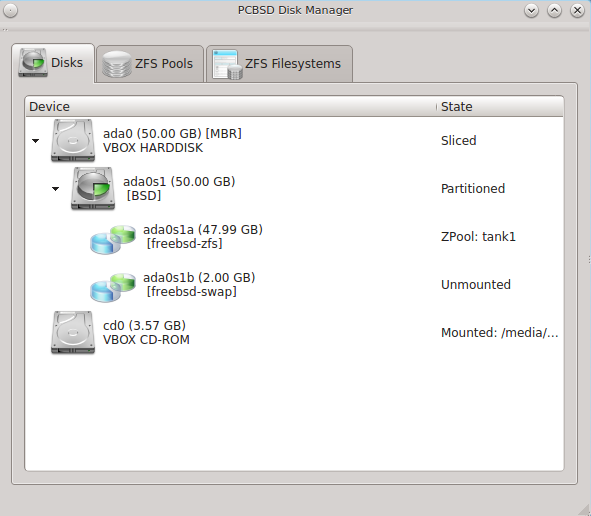
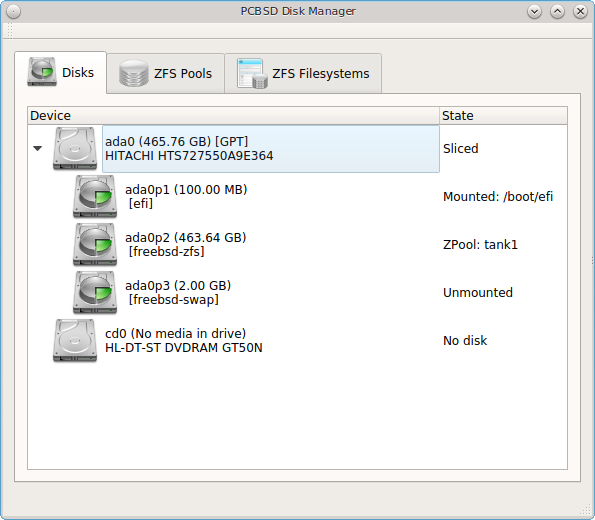
Review sections 8.3 to 8.10.

diff --git a/src-qt5/docs/controlpanel.rst b/src-qt5/docs/controlpanel.rst
@@ -613,7 +613,7 @@ the screen, allowing you to configure the following:
 
 * **Administrator Name:** input the name of the Active Directory Administrator account.
 
-- **Administrator Password:** input and confirm the password for the Active Directory Administrator account.
+* **Administrator Password:** input and confirm the password for the Active Directory Administrator account.
 
 The values that you input using this GUI are saved to :file:`/usr/local/etc/pc-activedirectory.conf` and :file:`/usr/local/etc/smb4.conf`.
 
@@ -651,7 +651,7 @@ of the screen, allowing you to configure the following:
 * **Machine Suffix:** this setting is optional and usually represents a description such as server or accounting. The input value will be added to the name
   when a system is added to the LDAP directory.
 
-* **Encryption Mode:** choices are "Off", "SSL", or "TLS". The selected type must be supported by the LDAP server.
+* **Encryption Mode:** choices are "NONE", "SSL", or "TLS". The selected type must be supported by the LDAP server.
 
 * **Self Signed Certificate:** used to verify the certificate of the LDAP server if SSL connections are used. Paste the output of the command 
   :command:`openssl s_client -connect server:port -showcerts`.
@@ -674,17 +674,17 @@ PC-BSD® supports a feature of ZFS known as multiple boot environments (BEs). Wi
 low-risk operation as you can backup your current boot environment before upgrading or making software updates to your system. If needed, you also have the
 option of booting into a backup boot environment. For example: 
 
-* if you are making software changes to a boot environment, you can take a snapshot of that environment at any stage during the modifications.
+* If you are making software changes to a boot environment, you can take a snapshot of that environment at any stage during the modifications.
 
-* you can save multiple boot environments on your system and perform various updates on each of them as needed. You can install, test, and update different
+* You can save multiple boot environments on your system and perform various updates on each of them as needed. You can install, test, and update different
   software packages on each.
 
-* you can mount a boot environment in order to :command:`chroot` into the mount point and update specific packages on the mounted environment.
+* You can mount a boot environment in order to :command:`chroot` into the mount point and update specific packages on the mounted environment.
 
-* you can move a boot environment to another machine, physical or virtual, in order to check hardware support.
+* You can move a boot environment to another machine, physical or virtual, in order to check hardware support.
 
 .. note:: for boot environments to work properly, **do not delete the default ZFS mount points during installation.** The default ZFS layout ensures that when
-   you create multiple boot environments, the :file:`/usr/pbi/`, :file:`/usr/local/`, :file:`/usr/home/`, :file:`/usr/ports/`, :file:`/usr/src/` and
+   boot environments are created, the :file:`/usr/pbi/`, :file:`/usr/local/`, :file:`/usr/home/`, :file:`/usr/ports/`, :file:`/usr/src/` and
    :file:`/var/` directories remain untouched. This way, if you rollback to a previous boot environment, you will not lose data in your home directories, any
    installed applications, or downloaded src or ports. During installation, you can add additional mount points, just don't delete the default ones.
 
@@ -692,7 +692,7 @@ To create and manage boot environments using a graphical interface, go to :menus
 :command:`pc-su pc-bootconfig`. You will be prompted to enter your password.
 
 PC-BSD® automatically creates a boot environment whenever it updates the operating system or installed software. In the example shown in Figure 8.4a, there
-is an entry named *default* that represents the original installation and an entry for an operating system update to patch level 14.
+is an entry named *default* that represents the original installation and an entry that was created when the operating system was updated to patch level 20.
 
 **Figure 8.4a: Managing Boot Environments**
 
@@ -733,7 +733,7 @@ that was set as the "Default".
 
 .. image:: images/be4.png
 
-The "Boot Environment Menu" indicates that multiple boot environments are available. To browse the available boot environments, press the :kbd:`spacebar` to pause the screen,
+The "Boot Environment Menu" entry indicates that multiple boot environments are available. To browse the available boot environments, press the :kbd:`spacebar` to pause the screen,
 arrow down to "Boot Environment Menu" and press :kbd:`Enter`. In the example shown in Figure 8.4c, two boot environments are available. The entry with "default" in the
 name indicates the date and time of the initial installation. The first boot entry indicates the operating system's current patch level and the date the system was updated.
 It is first in the boot order and since it is highlighted in blue, it is the active boot environment, or the one the system will boot into unless another BE is manually
@@ -787,9 +787,10 @@ example, this command creates a boot environment named *beforeupgrade*::
 To view all boot environments, use the :command:`list` command::
 
  beadm list
- BE             Active Mountpoint Space Created
- default        NR     /          9.1G  2013-12-05 09:03
- beforeupgrade  -      -          2.1M  2013-12-06 10:14
+ BE                                  Active Mountpoint  Space Created             Nickname
+ default                             -      -            8.4G 2015-05-07 10:14    default
+ 10.1-RELEASE-p20-up-20150512_114505 NR     /           33.1G 2015-05-12 10:57    10.1-RELEASE-p20-up-20150512_114505
+ beforeupgrade                       -      -            8.2M 2015-05-12 17:30    beforeupgrade
 
 The possible flags in the "Active" field are as follows: 
 
@@ -799,17 +800,20 @@ The possible flags in the "Active" field are as follows:
 
 * **-:** inactive 
 
-In this example, the current boot environment is called *default*, it is active now, will be used at next reboot, and it is mounted. The newly created
+In this example, the current boot environment is called *10.1-RELEASE-p20-up-20150512_114505*, it is active now, will be used at next reboot, and it is mounted. The newly created
 *beforeupgrade* boot environment exists, but is inactive and unmounted. To activate the new boot environment::
 
  beadm activate beforeupgrade
+ GRUB configuration updated successfully
  Activated successfully
- beadm list
- BE            Active Mountpoint Space Created
- default       N      /          3.1M  2013-12-05 09:03
- beforeupgrade R      -          9.1G  2013-12-06 10:14
 
-The flags now indicate that the system is currently booted into *default*, but at next boot the system will boot into *beforeupgrade*.
+ beadm list
+ BE                                  Active Mountpoint  Space Created             Nickname
+ default                             -      -            8.4G 2015-05-07 10:14    default
+ 10.1-RELEASE-p20-up-20150512_114505 N      /           12.6M 2015-05-12 10:57    10.1-RELEASE-p20-up-20150512_114505
+ beforeupgrade                       R      -           33.1G 2015-05-12 17:30    beforeupgrade
+
+The flags now indicate that the system is currently booted into *10.1-RELEASE-p20-up-20150512_114505*, but at next boot the system will boot into *beforeupgrade*.
 
 The boot menu configuration can be found in the ASCII text file :file:`/usr/local/etc/default/grub`::
 
@@ -869,9 +873,9 @@ desktop. When finished, click "Apply" and you will be prompted to input the sele
    until this setting is changed again in Login Manager.
 
 The "Remote login" tab, shown in Figure 8.6b, is used to enable a remote user to connect to a desktop session using
-`VNC <http://en.wikipedia.org/wiki/Virtual_Network_Computing>`_. Check the "Enable Remote Desktop (VNC)" box to enable this service. You will be prompted for
-the name and password of the user. Reboot in order to activate the VNC service over port 5900. You will also need to open TCP port 5900 using
-:ref:`Firewall Manager`. You can test the connection using the "vnc" option of KRDC (shown in Figure 9.6a) or from another VNC client.
+`VNC <http://en.wikipedia.org/wiki/Virtual_Network_Computing>`_. Check the "Enable Remote Desktop (VNC)" box to enable this service. When you click "Apply", you will
+be prompted for your password as well as the remote login password to use for the VNC session. Reboot in order to activate the VNC service over port 5900. You will
+also need to open TCP port 5900 using :ref:`Firewall Manager`. You can test the connection using the "vnc" option of KRDC (shown in Figure 9.6a) or from another VNC client.
 
 .. warning:: use **extreme caution** when enabling this option as it makes your system available to anyone over the network. There is an additional risk when
    a user logs in over VNC as their password is sent in clear text. If you need someone to access your PC-BSD® system to assist with troubleshooting,
@@ -891,7 +895,7 @@ The "Misc" tab is shown in Figure 8.6c.
 
 This screen provides the following options:
 
-**Enable "show password" button:** by default, when a user types their password at the login prompt shown in Figure 4.8a, "*" characters are displayed as the password is
+**Enable "show password" button:** by default, when a user types their password at the login prompt shown in Figure 4.9a, "*" characters are displayed as the password is
 typed in order to prevent another user from seeing the password as it is typed. When the  "Enable "show password" button" box is checked, and the user clicks the lock icon next to
 the typed password in the login screen, the asterisks will change to reveal the password.
 
@@ -902,7 +906,7 @@ this box. For security reasons, the Login Manager will refuse logins from the *r
 that they check the "Stealth Session" box in the login menu, a temporary, encrypted zvol is created, mounted, and used as a temporary home directory. When the user logs out, the
 zvol is destroyed, along with the contents of that temporary home directory. This allows a user to temporarily use a PC-BSD® system without leaving any data from their login session
 on the PC-BSD® system. This can be useful, for example, to allow a publicly accessible system to support multiple, transient users. It also allows you to login and run
-applications as if on a fresh system each time. Should the system be rebooted before you logout of the stealth session, the onetime key is lost, rendering the data useless.
+applications as if on a fresh system each time. Should the system be rebooted before you logout of the stealth session, the one-time key is lost, rendering the data useless.
 A stealth session is similar to a web browser's private mode, except for your entire desktop session.
 
 .. warning:: if you log into a stealth session, do not save any data to your home directory as it will be destroyed at logout. If your intent is to safely interact with a
@@ -952,7 +956,7 @@ System Manager
 ==============
 
 This section describes the various tasks that can be performed using the graphical System Manager utility. System Manager can be accessed from
-:menuselection:`Control Panel --> System Manager` or by typing pc-su :command:`pc-sysmanager`. You will be prompted to input your password.
+:menuselection:`Control Panel --> System Manager` or by typing :command:`pc-su pc-sysmanager`. You will be prompted to input your password.
 
 The "General" tab, shown in Figure 8.8a, displays the following system information: 
 
@@ -1000,7 +1004,7 @@ During the installation of PC-BSD® you had an opportunity to install FreeBSD so
 
 This tab provides a graphical interface for installing system source or the ports tree using :command:`git`.
 
-If you click the "Fetch PC-BSD System Source" button, a progress screen will indicate that sources are being downloaded to :file:`/usr/src/`. Once the
+If you click the "Fetch PC-BSD System Source" button, a pop-up menu will display the download process. The source will be saved to :file:`/usr/src/`. Once the
 download is complete, a "Finished!" message will appear and you can click the "Close" button to exit this screen.
 
 If you click the "Fetch PC-BSD Ports Tree" button, a message will indicate that ports are being fetched and will indicate when this is complete by adding a
@@ -1057,7 +1061,7 @@ example is seen in Figure 8.9b.
 
 .. image:: images/user2.png
 
-The accounts that you did not create are known as system accounts and are needed by the operating system or installed applications. You should **not** delete
+The accounts that you did not create are known as system accounts and are needed by the operating system or installed applications. Do **not** delete
 any accounts that you did not create yourself as doing so may cause a previously working application to stop working. "Advanced View" provides additional
 information associated with each account, such as the user ID number, full name (description), home directory, default shell, and primary group. System
 accounts usually have a shell of *nologin* for security reasons, meaning that an attacker can not try to login to the system using that account name.
@@ -1121,10 +1125,10 @@ new user, named *dlavigne*, has been created and the entry for that user has bee
 .. image:: images/user5.png
 
 Before a user is configured to use PersonaCrypt on a PC-BSD® system, two buttons are available in the "PersonaCrypt" section of "Advanced Mode". Note that this section is hidden
-if the currently logged in user is selected. Also, if you have just created a user and do not see these options, click "Apply" then re-highlight the user.
+if the currently logged in user is selected. Also, if you have just created a user and do not see these options, click "Apply" then re-highlight the user to display these options:
 
 * **Import Key:** if the user has already created a PersonaCrypt device on another PC-BSD® system, click this button to import a previously saved copy of the key associated with
-  the device. Once the key is imported, the user can now login using PersonaCrypt.
+  the device. Once the key is imported, the user can now login to this computer using PersonaCrypt.
 
 * **Initialize Device:** used to prepare the USB device that will be used as the user's home directory.
 
@@ -1143,7 +1147,7 @@ display the device's key options, as seen in Figure 8.9e.
 
 .. image:: images/user6.png
 
-The following options are available:
+The following options are now available:
 
 * **Export Key:** used to create a copy of the encryption key so that it can be imported for use on another PC-BSD® system.
 
@@ -1152,11 +1156,7 @@ The following options are available:
 * **Disable Key (Import Data):** in addition to uninitializing the PersonaCrypt device on this system, copy the contents of the user's home directory to this system.
 
 Once a user has been initialized for PersonaCrypt on the system, their user account will no longer be displayed when :ref:`Logging In` **unless** their PersonaCrypt device is
-inserted. Once the USB device is inserted, the login screen will add an extra field, as seen in Figure 8.9f.
-
-**Figure 8.9f: Logging in as a PersonaCrypt User** 
-
-.. image:: images/user7.png
+inserted. Once the USB device is inserted, the login screen will add an extra field, as seen in the example shown in Figure 4.9b.
 
 .. note:: if the "Allow Stealth Sessions" checkbox has been checked in :menuselection:`Control Panel --> Login Manager --> Misc`, PersonaCrypt users will still be displayed in the
    login menu, even if their USB device is not inserted. This is to allow those users the option to instead login using a stealth session. See :ref:`Login Manager` for more information
@@ -1174,9 +1174,9 @@ PersonaCrypt device.
 Managing Groups
 ---------------
 
-If you click the "Groups" tab, you can view all of the groups on the system, as seen in Figure 8.9g. 
+If you click the "Groups" tab, you can view all of the groups on the system, as seen in Figure 8.9f. 
 
-**Figure 8.9g: Managing Groups Using User Manager** 
+**Figure 8.9f: Managing Groups Using User Manager** 
 
 .. image:: images/user4.png
 
@@ -1188,7 +1188,7 @@ This screen has 3 columns:
 
 **Members:** indicates if the highlighted group contains any user accounts.
 
-To add an account to a group, highlight the group name in the first column. Then, highlight the account name in the "Available" column. Click the right arrow
+To add an account to a group, highlight the group name in the "Groups" column. Then, highlight the account name in the "Available" column. Click the right arrow
 and the selected account will appear in the "Members" column. You should only add user accounts to groups that you create yourself or when an application's
 installation instructions indicate that an account needs to be added to a group.
 
@@ -1196,7 +1196,7 @@ If you click the "Add" button, a pop-up menu will prompt you for the name of the
 column.
 
 If you click the "Remove" button, the highlighted group will automatically be deleted after you press the "Apply" button, so be sure to do this with care.
-Again, do not remove any groups that you did not create yourself or applications that used to work may stop working.
+Again, do **not** remove any groups that you did not create yourself or applications that used to work may stop working.
 
 .. index:: configuration
 .. _Disk Manager:
@@ -1208,16 +1208,16 @@ The PC-BSD® Disk Manager can be used to manage ZFS pools and datasets as well a
 :menuselection:`Control Panel --> Disk Manager` or type :command:`pc-su pc-zmanager` from within an xterm. You will need to input your password in order to
 access this utility.
 
-As seen in the example in Figure 8.10a, the utility will open in the "ZFS Filesystems" tab and will display the system's ZFS datasets, the amount of space
+As seen in the example in Figure 8.10a, the utility will open in the "ZFS Filesystems" tab and will display the system's ZFS datasets and their snapshots, the amount of space
 available to each dataset, and the amount of space each dataset is using.
 
 **Figure 8.10a: Viewing the System's ZFS Datasets**
 
 .. image:: images/disk1.png
 
-The name of the pool in this example is *tank*. If the system has multiple pools, click the green arrow to select the desired pool.
+The name of the pool in this example is *tank1*. If the system has multiple pools, click the green arrow to select the desired pool.
 
-If you right-click the pool name, the following options are available: 
+If you right-click the pool name under "Filesystems", the following options are available: 
 
 * **Mount:** whether or not the filesystem can be mounted depends upon the value of the "canmount" property of the dataset.
 
@@ -1226,7 +1226,7 @@ If you right-click the pool name, the following options are available:
 * **Create a clone dataset:** creates a copy of the dataset.
 
 * **Take a snapshot:** will prompt for the name of the snapshot. The field is pink to remind you to type the snapshot name in immediately after the pool name
-  and *@* symbol. In this example, *tank@* will be displayed in the name field. An example snapshot name could be *tank@snapshot1* or *tank@201312031353* to
+  and *@* symbol. In this example, *tank1@* will be displayed in the name field. An example snapshot name could be *tan1k@snapshot1* or *tank1@201505181353* to
   denote the date and time the snapshot was created. The snapshot creation will be instantaneous and the new snapshot will be added to the list of datasets
   and will have a camera icon. Click the entry for the snapshot entry if you wish to rename it, clone it, destroy it, rollback the system to that point in
   time, or edit its properties. If you forget when you made the snapshot, pick "Edit properties" from the snapshot's right-click menu as it will show its
@@ -1258,31 +1258,31 @@ any options unless you are familiar with the ramifications of doing so.
 * **Unicode normalization:** if checked, indicate whether unicode normalization should occur when comparing filenames, and if so, which normalization
   algorithm to use. Choices are *none*, *formD*, or *formKCF*.
 
-* **Copies:** if checked, indicates the number of copies (0 to 3) of data to store in the dataset. The copies are in addition to any redundancy and are stored
+* **Copies:** if checked, indicates the number of copies (1 to 3) of data to store in the dataset. The copies are in addition to any redundancy and are stored
   on different disks when possible.
 
 * **Deduplication:** enables deduplication.
   **Do not** enable this option if the system has less than the minimum recommended 5GB of RAM per TB of storage to be deduplicated.
 
-- **Compression:** if checked and a compression algorithm is selected in the drop-down menu, data will automatically be compressed as it is written and
+* **Compression:** if checked and a compression algorithm is selected in the drop-down menu, data will automatically be compressed as it is written and
   uncompressed as it is read. The algorithm determines the amount and speed of compression, where typically increased compression results in decreased speed.
   The *lz4* algorithm is recommended as it provides very good compression at near real-time speed.
 
-To view the status of the ZFS pools and the disk(s) in the pool, click the "ZFS Pools" tab. In the example, shown in Figure 8.10d, the ZFS pool named *tank*
+To view the status of the ZFS pools and the disk(s) in the pool, click the "ZFS Pools" tab. In the example, shown in Figure 8.10d, the ZFS pool named *tank1*
 was created from one disk. The state of "Online" indicates that the pool is healthy.
 
 **Figure 8.10d: Viewing the Status of the ZFS Pool** 
 
 .. image:: images/disk4.png
 
-If you right-click the pool, which is named *tank* in this example, the following options are available: 
+If you right-click the pool name, the following options are available: 
 
 * **Create new pool:** use this option if additional disks are available and you would like to create another pool instead of adding them to the existing
   pool. This will open a screen that allows you to name the new pool, select which additional disks will go into it, and select how to configure the disks.
 
 * **Rename pool:** will prompt you to input the new name for the pool.
 
-* **Destroy pool:** **do not select this option unless you want to destroy all of the data on the disks.**
+* **Destroy pool:** **do not select this option unless your intent is to destroy all of the data on the disks!**
 
 * **Add devices:** depending upon the type of disk configuration, you may be able to extend the size of the pool by adding an equal number of disks.
 
@@ -1299,7 +1299,7 @@ If you right-click the pool, which is named *tank* in this example, the followin
 * **Properties:** used to manage the default properties of the pool. Datasets inherit the default properties, unless a property is set to a different value on
   the dataset.
 
-If you right-click a disk entry, such as *ad0s1a* in this example, the following options are available: 
+If you right-click a disk entry, such as *ada0p2* in this example, the following options are available: 
 
 * **Attach (mirror) device:** if you wish to mirror additional disk(s), this option will open a screen which allows you to specify the disk(s) to add.
 
@@ -1311,7 +1311,7 @@ An example of the "Disks" tab is seen in Figure 8.10e.
 
 .. image:: images/disk5.png
 
-This screen shows the size of each disk as well as the partitioning scheme. If an unformatted disk or free disk space is available, right-click the device to
+This screen shows the size of each disk as well as its partitioning scheme. If an unformatted disk or free disk space is available, right-click the device to
 format it.
 
 .. index:: configuration
